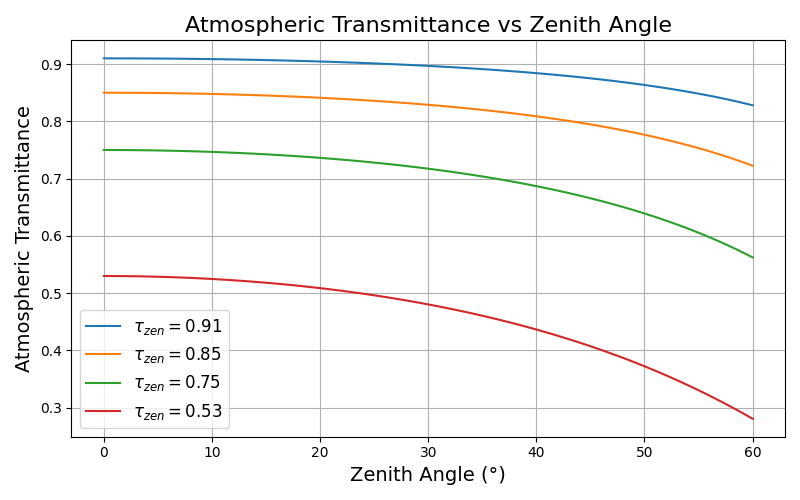
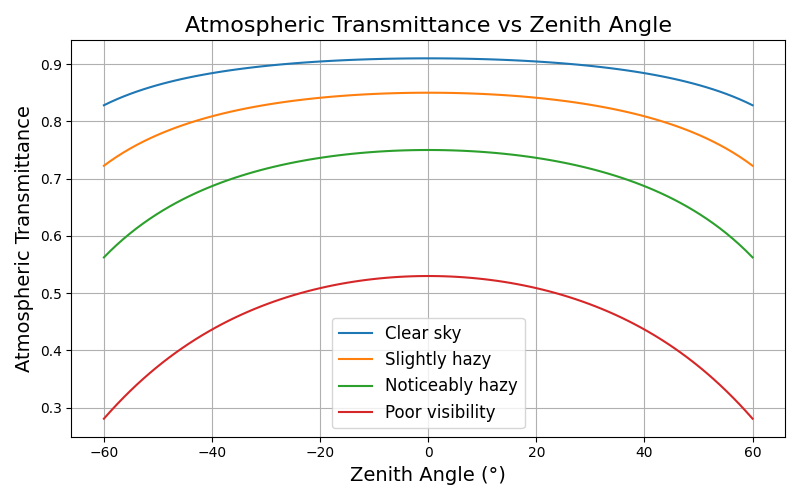
simulate the transmissivity for atmospheric loss

diff --git a/BB84/SimulationResult/Circle_beam/Atmospheric/transmissivity_t_zenith.py b/BB84/SimulationResult/Circle_beam/Atmospheric/transmissivity_t_zenith.py
@@ -4,19 +4,27 @@ import numpy as np
 import os, sys
 simulation_path = os.path.abspath(os.path.join(os.path.dirname(__file__), '../../../', 'Model'))
 sys.path.append(simulation_path)
-from atmospheric_transmissivity import atmospheric_transmittance
+from atmospheric_transmissivity import transmissivity_etat
 
 
 
 def main():
     tau_zen_values = [0.91, 0.85, 0.75, 0.53]
-    angles = np.linspace(0, 60, 100)
+    angles = np.linspace(-60, 60, 100)
 
     plt.figure(figsize=(8, 5))
 
     for tau_zen in tau_zen_values:
-        transmissions = [atmospheric_transmittance(tau_zen, angle) for angle in angles]
-        plt.plot(angles, transmissions, label=fr"$\tau_{{zen}} = {tau_zen}$")
+        if tau_zen == 0.91:
+            weather = 'Clear sky'
+        elif tau_zen == 0.85:
+            weather = 'Slightly hazy'
+        elif tau_zen == 0.75:
+            weather = 'Noticeably hazy'
+        else:
+            weather = 'Poor visibility'
+        transmissions = [transmissivity_etat(tau_zen, angle) for angle in angles]
+        plt.plot(angles, transmissions, label=fr"{weather}")
 
     plt.xlabel("Zenith Angle (°)", fontsize=14)
     plt.ylabel("Atmospheric Transmittance", fontsize=14)
